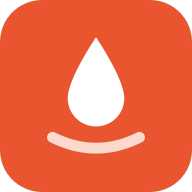
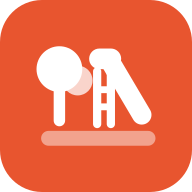
V7 mark: the playground replaces the droplet, and the splash gains the wordmark
The droplet said "water", and water was never the product. The mark is now the
slide under a tree on the ground line: outside / playing / kids in one glance,
with the tree keeping a bare slide from reading as office equipment. It lands in
the same release that replaced indigo.

Two variants, because the mark lands on two very different fields:
 - 'color' (default, light surfaces): park-green tree, bark trunk, and the slide
   in currentColor so it matches the wordmark beside it without a second colour
   decision.
 - 'mono' (a field of brand colour): everything currentColor with depth from
   opacity, because a green tree on the terracotta splash field reads as
   Christmas.

The splash now carries the wordmark under the mark, in all three frames that make
up one launch: the static boot splash in index.html, the React SplashScreen, and
the iOS startup images. All three use the same numbers — mark 112px, wordmark
700 32px/40px, 16px gap — so they stay one continuous frame instead of a series
of small jumps.

build-splash.mjs is rewritten to render through a real browser. rsvg-convert
resolves fonts through fontconfig, and the brand face is NOT installed
system-wide (it is a self-hosted woff2 that only the app loads), so the launch
frame painted the wordmark in Liberation Sans and changed typeface the instant
the web splash took over. Chromium loads the app's own woff2, so these images are
now the frame the app paints; the script ASSERTS the brand face loaded rather
[…]

Changed region(s): [[0.1875, 0.1875, 0.8125, 0.8125]]

diff --git a/src/components/DropInMark.tsx b/src/components/DropInMark.tsx
@@ -1,25 +1,98 @@
 /**
- * The Drop In mark (V4 slice 2): a droplet landing on the water it just
- * disturbed. Inline SVG rather than an asset file so it inherits
- * `currentColor` and stays crisp at the 24–28px the header uses.
+ * The Drop In mark (V7): the playground — a slide under a tree, standing on the
+ * ground line.
  *
- * The raster app icons come from assets/drop-in-icon.svg (same geometry,
- * white on indigo) — regenerate with scripts/build-icons.sh.
+ * It replaces the droplet in the same release that replaced indigo (see the
+ * colour block in index.css). The droplet said "water", and water was never the
+ * product. A slide and a tree say "outside, playing, kids" in one glance, and
+ * the tree is what keeps the slide alone from reading as office equipment.
+ *
+ * Inline SVG rather than an asset file, for the reason the droplet version
+ * already had: it stays crisp at the 28px the header uses. The slide is drawn in
+ * `currentColor`, so it matches the wordmark it sits beside without needing a
+ * second colour decision.
+ *
+ * TWO VARIANTS, because the mark lands on two very different fields:
+ *
+ *  - 'color' (default) — a light surface (the header, the login card). The slide
+ *    takes currentColor, which is the brand terracotta everywhere it is used, and
+ *    the tree keeps its park green.
+ *  - 'mono' — a field of brand colour (the splash). Everything is currentColor
+ *    and depth comes from OPACITY instead of hue, because a green tree on the
+ *    terracotta splash field reads as Christmas.
+ *
+ * THE SAME GEOMETRY IS DRAWN IN FOUR OTHER PLACES. If the mark changes, all five
+ * move together:
+ *   assets/drop-in-icon.svg   the app icon (regenerate: scripts/build-icons.sh)
+ *   public/favicon.svg        the browser tab
+ *   index.html                the static boot splash (first painted frame)
+ *   scripts/build-splash.mjs  the iOS startup images
  */
-export function DropInMark({ className }: { className?: string }) {
+
+/** Park green — the canopy that catches the light (the emerald-* tints in CSS). */
+const TREE = '#93c066'
+/** The shaded canopy and the ground line. */
+const TREE_DEEP = '#7fae54'
+/** The trunk — warm bark, so the tree reads as a tree and not as a green disc. */
+const BARK = '#6b4a34'
+
+export function DropInMark({
+  className,
+  variant = 'color',
+}: {
+  className?: string
+  variant?: 'color' | 'mono'
+}) {
+  const mono = variant === 'mono'
+  const slide = 'currentColor'
+  const tree = mono ? 'currentColor' : TREE
+  const treeDeep = mono ? 'currentColor' : TREE_DEEP
+  const bark = mono ? 'currentColor' : BARK
+
   return (
     <svg viewBox="0 0 64 64" className={className} aria-hidden="true">
+      {/* The tree. Two overlapping canopies give it a shape at 28px; a single
+          circle would read as a dot. */}
+      <circle cx="15" cy="21" r="10" fill={tree} />
+      <circle cx="23" cy="26" r="6.5" fill={treeDeep} fillOpacity={mono ? 0.75 : 1} />
+      <rect x="12.5" y="28" width="5" height="18" rx="2.5" fill={bark} />
+
+      {/* The slide: the chute, its platform, and the ladder that gets you up
+          there. All one colour — they are one object. */}
       <path
-        d="M32 6 C32 6 19 25 19 34 a13 13 0 0 0 26 0 C45 25 32 6 32 6 Z"
-        fill="currentColor"
+        d="M38 19 L51 41"
+        stroke={slide}
+        strokeWidth="8.5"
+        strokeLinecap="round"
+        fill="none"
+      />
+      <rect x="28" y="12" width="14" height="9" rx="4.5" fill={slide} />
+      <path
+        d="M31.5 22 L31.5 45 M37.5 22 L37.5 45"
+        stroke={slide}
+        strokeWidth="3.6"
+        strokeLinecap="round"
+        fill="none"
       />
       <path
-        d="M12 52 Q32 62 52 52"
-        fill="none"
-        stroke="currentColor"
-        strokeOpacity="0.45"
-        strokeWidth="5"
+        d="M31.5 30 L37.5 30 M31.5 37.5 L37.5 37.5"
+        stroke={slide}
+        strokeWidth="3"
         strokeLinecap="round"
+        fill="none"
+      />
+
+      {/* The ground line. It is what makes a tree and a slide a PLACE rather than
+          two icons that happen to be near each other — and it is the descendant
+          of the droplet's landing ripple, kept deliberately quiet. */}
+      <rect
+        x="7"
+        y="48"
+        width="50"
+        height="6.5"
+        rx="3.25"
+        fill={treeDeep}
+        fillOpacity={mono ? 0.45 : 1}
       />
     </svg>
   )

diff --git a/index.html b/index.html
@@ -64,16 +64,34 @@
     <div id="root">
       <!-- Static boot splash: the FIRST painted frame, before the JS bundle has
            parsed — so a cold start is brand, never a white flash. SplashScreen
-           removes it on mount and continues from this exact frame. Keep the
-           colour in sync with the brand hue (indigo-500 in index.css, #e8552f). -->
+           removes it on mount and continues from this exact frame: same mark,
+           same wordmark, same sizes, same 16px gap (see SplashScreen.tsx — the
+           mark is 112px, the wordmark 32px/40px, the field is the brand hue
+           indigo-500 in index.css, #e8552f). The face falls back to the system
+           stack for the few frames before the self-hosted woff2 lands. -->
       <div
         id="boot-splash"
-        style="position: fixed; inset: 0; display: flex; align-items: center; justify-content: center; background: #e8552f"
+        style="position: fixed; inset: 0; display: flex; flex-direction: column; align-items: center; justify-content: center; gap: 16px; background: #e8552f"
       >
         <svg viewBox="0 0 64 64" width="112" height="112" aria-hidden="true">
-          <path d="M32 6 C32 6 19 25 19 34 a13 13 0 0 0 26 0 C45 25 32 6 32 6 Z" fill="#ffffff" />
-          <path d="M12 52 Q32 62 52 52" fill="none" stroke="#fbd9cc" stroke-width="5" stroke-linecap="round" />
+          <g fill="#ffffff">
+            <circle cx="15" cy="21" r="10" />
+            <circle cx="23" cy="26" r="6.5" fill-opacity=".75" />
+            <rect x="12.5" y="28" width="5" height="18" rx="2.5" />
+            <rect x="28" y="12" width="14" height="9" rx="4.5" />
+          </g>
+          <g stroke="#ffffff" stroke-linecap="round" fill="none">
+            <path d="M38 19 L51 41" stroke-width="8.5" />
+            <path d="M31.5 22 L31.5 45 M37.5 22 L37.5 45" stroke-width="3.6" />
+            <path d="M31.5 30 L37.5 30 M31.5 37.5 L37.5 37.5" stroke-width="3" />
+          </g>
+          <rect x="7" y="48" width="50" height="6.5" rx="3.25" fill="#ffffff" fill-opacity=".45" />
         </svg>
+        <p
+          style="margin: 0; font-family: 'Bricolage Grotesque', ui-sans-serif, system-ui, sans-serif; font-weight: 700; font-size: 32px; line-height: 40px; color: #ffffff"
+        >
+          Drop In
+        </p>
       </div>
     </div>
     <script type="module" src="/src/main.tsx"></script>

diff --git a/src/components/SplashScreen.tsx b/src/components/SplashScreen.tsx
@@ -67,11 +67,16 @@ export function SplashScreen() {
     <div
       aria-hidden="true"
       data-testid="splash"
-      className={`fixed inset-0 z-50 flex items-center justify-center bg-indigo-500 transition-opacity duration-300 motion-reduce:transition-none ${
+      className={`fixed inset-0 z-50 flex flex-col items-center justify-center gap-4 bg-indigo-500 text-white transition-opacity duration-300 motion-reduce:transition-none ${
         fading ? 'pointer-events-none opacity-0' : 'opacity-100'
       }`}
     >
-      <DropInMark className="h-28 w-28 text-white" />
+      <DropInMark className="h-28 w-28" variant="mono" />
+      {/* The wordmark under the mark. Same face and weight as the header's, so
+          the splash and the app read as one thing across the handoff rather
+          than as two different logos. `mono` because this is a field of brand
+          colour: a green tree on it would read as Christmas. */}
+      <p className="font-display text-2xl font-bold">Drop In</p>
     </div>
   )
 }
